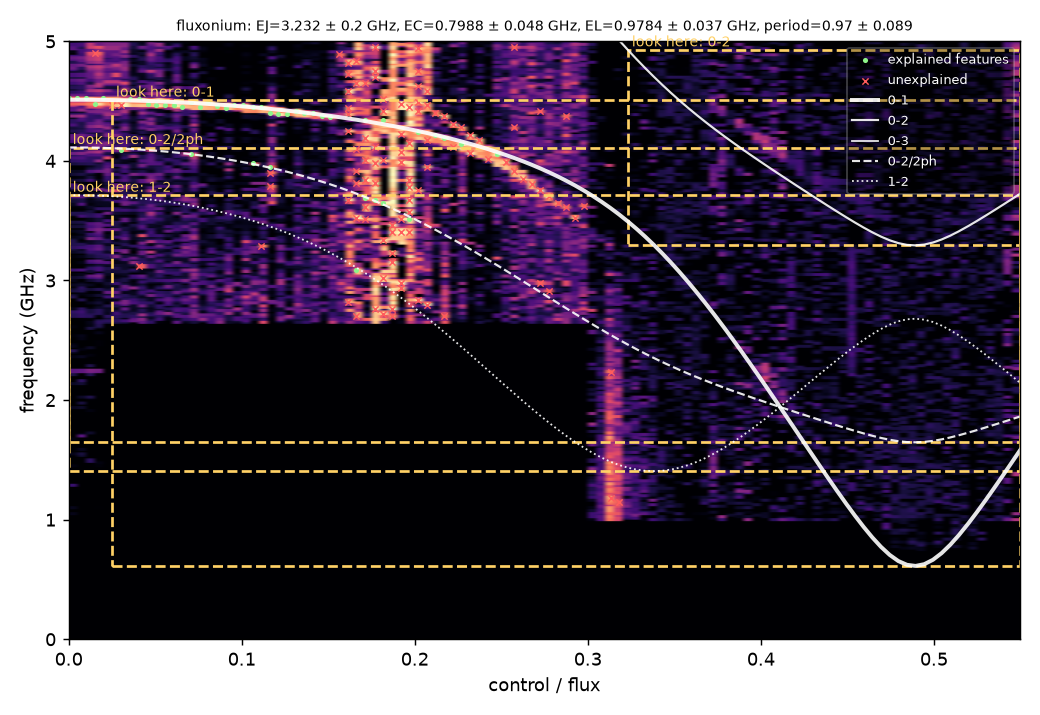
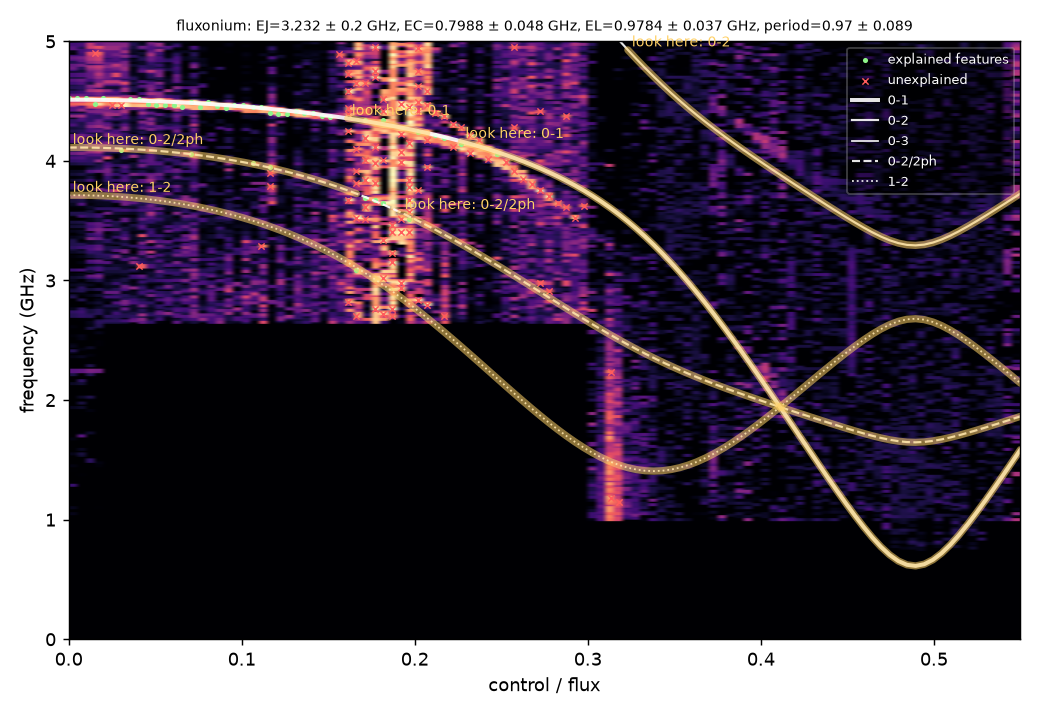
Look-here suggestions drawn as line segments; multi-start fitter

diff --git a/circuitsleuth/agent.py b/circuitsleuth/agent.py
@@ -33,6 +33,7 @@ class AgentConfig:
     extra_hypotheses: tuple = ()
     families: tuple = ()  # restrict candidate families (empty = all)
     flux_calibrated: bool = False  # x axis already in flux quanta: period = 1, offset = 0 (tight bounds)
+    n_starts: int = 2  # random restarts of the global search (best fine-scale loss wins)
 
 
 def _emit(progress: Progress | None, kind: str, **payload):
@@ -113,14 +114,32 @@ def next_measurements(res: fit.FitResult, pts_all, band, x_grid, c_local, line_w
             if not near.size or np.min(np.abs(near[:, 1] - Li)) > 3 * c_local:
                 missing.append((xi, Li))
         if len(missing) >= 0.5 * inband.sum() and len(missing) >= 3:
+            # split the missing columns into contiguous runs and report the longest two as boxes
             xs = np.array([m[0] for m in missing])
             fs = np.array([m[1] for m in missing])
+            order = np.argsort(xs)
+            xs, fs = xs[order], fs[order]
+            dxg = np.median(np.diff(np.unique(x_grid))) if len(x_grid) > 1 else 1.0
+            runs, start = [], 0
+            for i in range(1, len(xs) + 1):
+                if i == len(xs) or xs[i] - xs[i - 1] > 2.5 * dxg:
+                    runs.append((start, i))
+                    start = i
+            runs.sort(key=lambda ab: -(ab[1] - ab[0]))
             why = f"the model predicts the {name} line here but nothing was detected"
             if name == "0-2/2ph":
                 why += "; raise the drive power to bring out the two-photon transition"
             elif name == "1-2":
                 why += "; a weak thermal population line, visible with higher power or a pre-pulse"
-            out.append(dict(kind="look_here", line=name, x_lo=round(float(xs.min()), 4), x_hi=round(float(xs.max()), 4), f_lo=round(float(fs.min()), 3), f_hi=round(float(fs.max()), 3), why=why))
+            for a, b_ in runs[:2]:
+                if b_ - a < 3:
+                    continue
+                out.append(dict(kind="look_here", line=name, x_lo=round(float(xs[a]), 4), x_hi=round(float(xs[b_ - 1]), 4), f_lo=round(float(fs[a:b_].min()), 3), f_hi=round(float(fs[a:b_].max()), 3), why=why))
+    # keep the most useful suggestions: 0-1 first, then by run length
+    prio = {"0-1": 0, "0-2": 1, "0-2/2ph": 2, "1-2": 3, "0-3": 4}
+    look = [o for o in out if o["kind"] == "look_here"]
+    look.sort(key=lambda o: (prio.get(o["line"], 9), -(o["x_hi"] - o["x_lo"])))
+    out = [o for o in out if o["kind"] != "look_here"] + look[:4]
     # poorly determined parameters
     for n, s in res.sigma.items():
         v = res.params.get(n, np.nan)
@@ -192,11 +211,12 @@ def identify(image: np.ndarray | None = None, x: np.ndarray | None = None, f: np
     # ---- 3. fit bare hypotheses
     results: list[tuple[fit.FitResult, float, np.ndarray]] = []
 
-    def run_one(h: fit.Hypothesis, pts_fit, init, bounds, maxiter):
+    def run_one(h: fit.Hypothesis, pts_fit, init, bounds, maxiter, n_starts=None):
         def cb(params, loss):
             _emit(progress, "fit_progress", hypothesis=h.label, params=params, loss=loss, lines={k: v.tolist() for k, v in fit.predict_lines(h, params, x_grid).items()})
 
-        return fit.fit_hypothesis(pts_fit, h, band, init=init, bounds=bounds, maxiter=maxiter, popsize=cfg.popsize, seed=cfg.seed, workers=cfg.workers, callback=cb, c_local=cfg.c_local)
+        return fit.fit_hypothesis(pts_fit, h, band, init=init, bounds=bounds, maxiter=maxiter, popsize=cfg.popsize, seed=cfg.seed, workers=cfg.workers, callback=cb, c_local=cfg.c_local,
+                                  n_starts=cfg.n_starts if n_starts is None else n_starts)
 
     def run(h: fit.Hypothesis, init: dict | None):
         pts_fit = _fit_points_for(h, points, flat)
@@ -211,7 +231,7 @@ def identify(image: np.ndarray | None = None, x: np.ndarray | None = None, f: np
             cal = extract.estimate_flux_calibration(pts_fit)
             if cal["period"]:
                 P = cal["period"]
-                for ax in cal["axes"][:2]:
+                for ax in cal["axes"][:1]:
                     if ax["type"] == "unknown":
                         continue
                     off = ax["x"] if ax["type"] == "max" else ax["x"] - P / 2
@@ -224,7 +244,7 @@ def identify(image: np.ndarray | None = None, x: np.ndarray | None = None, f: np
                 _emit(progress, "calibration", period=P, axes=cal["axes"])
         best_res, best_sc, best_inl = None, -np.inf, None
         for b, ini, mi in candidates:
-            res = run_one(h, pts_fit, ini, b, mi)
+            res = run_one(h, pts_fit, ini, b, mi, n_starts=None if b is None else 1)
             score, inl = _score(res, points, ids, flat, band, cfg.c_local)
             if score > best_sc:
                 best_res, best_sc, best_inl = res, score, inl
@@ -276,7 +296,7 @@ def identify(image: np.ndarray | None = None, x: np.ndarray | None = None, f: np
         _emit(progress, "revise", reason=f"trying {hc.label} (p_coupled={p_coupled:.2f}, best score {best_score:.3f}); resonator candidates {', '.join(f'{v:.2f}' for v in cands[:3])} GHz")
         _emit(progress, "fit_start", hypothesis=hc.label, n_points=int(len(pts_fit)))
         cbest, csc, cinl = None, -np.inf, None
-        for fr0 in cands[:3]:
+        for fr0 in cands[:2]:
             b = fit.default_bounds(hc, pts_fit[:, 0])
             for k, v in best.params.items():  # circuit + calibration stay close to the bare solution
                 if k in b and k not in ("d", "offset", "period"):
@@ -287,7 +307,7 @@ def identify(image: np.ndarray | None = None, x: np.ndarray | None = None, f: np
                     b[k] = (v - 0.1 * best.params.get("period", 1.0), v + 0.1 * best.params.get("period", 1.0))
             b["fr"] = (max(fr0 - 0.6, models.RESONATOR_BOUNDS["fr"][0]), min(fr0 + 0.6, models.RESONATOR_BOUNDS["fr"][1]))
             init = dict(best.params, fr=fr0, g=0.1)
-            res = run_one(hc, pts_fit, init, b, max(20, int(cfg.maxiter * 0.6)))
+            res = run_one(hc, pts_fit, init, b, cfg.maxiter, n_starts=1)
             score, inl = _score(res, points, ids, flat, band, cfg.c_local)
             if score > csc:
                 cbest, csc, cinl = res, score, inl

diff --git a/circuitsleuth/fit.py b/circuitsleuth/fit.py
@@ -200,7 +200,7 @@ def subsample(points: np.ndarray, max_cols: int = 41, max_points: int = 3000) ->
     return points
 
 
-def fit_hypothesis(
+def _fit_once(
     points: np.ndarray,
     hyp: Hypothesis,
     band: tuple[float, float],
@@ -215,6 +215,7 @@ def fit_hypothesis(
     callback: Callable[[dict, float], None] | None = None,
     model_kw: dict | None = None,
     do_global: bool = True,
+    n_starts: int = 1,
 ) -> FitResult:
     x_all = np.unique(points[:, 0])
     bounds = bounds or default_bounds(hyp, x_all)
@@ -272,13 +273,14 @@ def fit_hypothesis(
         i_ej, i_ec = names.index(ej_name), names.index("EC")
         p0 = from_theta(theta0, names)
         f01 = np.sqrt(8 * p0["EC"] * p0[ej_name]) - p0["EC"]
-        best_t, best_v = theta0, obj_l(theta0)
-        for ec in np.exp(np.linspace(np.log(p0["EC"] * 0.5), np.log(p0["EC"] * 2.0), 21)):
+        obj_sweep = Objective(hyp, points, band, 3 * c_local, model_kw)
+        best_t, best_v = theta0, obj_sweep(theta0)
+        for ec in np.exp(np.linspace(np.log(p0["EC"] * 0.5), np.log(p0["EC"] * 2.0), 25)):
             ej = (f01 + ec) ** 2 / (8 * ec)
             t = theta0.copy()
             t[i_ec], t[i_ej] = np.log(ec), np.log(ej)
             if np.all(t >= lo) and np.all(t <= hi):
-                v = obj_l(t)
+                v = obj_sweep(t)
                 if v < best_v:
                     best_t, best_v = t, v
         theta0 = best_t
@@ -287,7 +289,9 @@ def fit_hypothesis(
     def resid(theta):
         return sw * obj_l.residuals(theta)
 
-    ls = least_squares(resid, theta0, bounds=(lo, hi), loss="soft_l1", f_scale=c_local, xtol=1e-10, ftol=1e-10, max_nfev=400)
+    # two-stage polish: a wider robust scale first pulls in lines that are ~50-100 MHz off, then the fine scale
+    ls = least_squares(resid, theta0, bounds=(lo, hi), loss="soft_l1", f_scale=3 * c_local, xtol=1e-9, ftol=1e-9, max_nfev=200)
+    ls = least_squares(resid, ls.x, bounds=(lo, hi), loss="soft_l1", f_scale=c_local, xtol=1e-10, ftol=1e-10, max_nfev=400)
     theta = ls.x
     params = from_theta(theta, names)
     r = obj_l.residuals(theta)
@@ -307,6 +311,22 @@ def fit_hypothesis(
         sigma = {n: float("nan") for n in names}
     lines = predict_lines(hyp, params, x_all, model_kw)
     return FitResult(hyp, params, theta, sigma, float(obj_l(theta)), r, inlier, inlier_frac, rms, x_all, lines, history=history, n_evals=n_evals + int(ls.nfev))
+
+
+def fit_hypothesis(points, hyp, band, bounds=None, init=None, c_global=0.08, c_local=0.012, maxiter=60, popsize=15, seed=0, workers=1,
+                   callback=None, model_kw=None, do_global=True, n_starts=1) -> FitResult:
+    """Multi-start wrapper: run the global+local fit from `n_starts` different random seeds and keep
+    the solution with the lowest fine-scale loss (the robust landscape has narrow basins; two starts
+    roughly square the failure probability away)."""
+    best = None
+    for k in range(max(1, n_starts) if do_global else 1):
+        res = _fit_once(points, hyp, band, bounds=bounds, init=init, c_global=c_global, c_local=c_local, maxiter=maxiter, popsize=popsize,
+                        seed=seed + 1000 * k, workers=workers, callback=callback, model_kw=model_kw, do_global=do_global)
+        if best is None or res.loss < best.loss:
+            best = res
+        if best.inlier_frac > 0.97:
+            break
+    return best
 
 
 def holdout_check(points: np.ndarray, result: FitResult, band: tuple[float, float], frac: float = 0.3, c_local: float = 0.012, model_kw: dict | None = None) -> dict:

diff --git a/scripts/make_figs.py b/scripts/make_figs.py
@@ -21,9 +21,17 @@ for name, vals in rep["lines"].items():
     v = np.array([np.nan if u is None else u for u in vals], float)
     if np.isfinite(v).any():
         ax.plot(xg, v, color="white", alpha=0.9, label=name, **styles.get(name, {}))
-for b in [n for n in rep["next_measurements"] if n["kind"] == "look_here"]:
-    ax.add_patch(Rectangle((b["x_lo"], b["f_lo"]), b["x_hi"] - b["x_lo"], max(b["f_hi"] - b["f_lo"], 0.05), fill=False, ec="#ffd166", lw=1.5, ls="--"))
-    ax.text(b["x_lo"], b["f_hi"], f" look here: {b['line']}", color="#ffd166", fontsize=8, va="bottom")
+boxes = [n for n in rep["next_measurements"] if n["kind"] == "look_here"]
+lines = rep["lines"]; x_grid = xg
+if boxes:
+    for b in boxes:
+        name = b.get("line")
+        if lines is not None and x_grid is not None and name in lines:
+            v = np.array([np.nan if u is None else u for u in lines[name]], float)
+            m = (x_grid >= b["x_lo"]) & (x_grid <= b["x_hi"]) & np.isfinite(v)
+            if m.any():
+                ax.plot(x_grid[m], v[m], color="#ffd166", lw=4, alpha=0.55, solid_capstyle="round")
+                ax.text(x_grid[m][0], v[m][0], f" look here: {name}", color="#ffd166", fontsize=8, va="bottom")
 ax.set_ylim(f[0], f[-1]); ax.set_xlabel("control / flux"); ax.set_ylabel("frequency (GHz)")
 b = rep["best"]
 ax.set_title(f"{b['hypothesis']}: " + ", ".join(f"{k}={v}" for k, v in b["params_pretty"].items() if k not in ("offset",)), fontsize=8)

diff --git a/app.py b/app.py
@@ -68,8 +68,13 @@ def draw_map(image, x, f, points=None, inlier=None, lines=None, x_grid=None, box
             ax.plot(x_grid, v, color="white", alpha=0.9, label=name, **LINE_STYLE.get(name, {}))
     if boxes:
         for b in boxes:
-            ax.add_patch(Rectangle((b["x_lo"], b["f_lo"]), b["x_hi"] - b["x_lo"], max(b["f_hi"] - b["f_lo"], 0.05), fill=False, ec="#ffd166", lw=1.5, ls="--"))
-            ax.text(b["x_lo"], b["f_hi"], f" look here: {b['line']}", color="#ffd166", fontsize=8, va="bottom")
+            name = b.get("line")
+            if lines is not None and x_grid is not None and name in lines:
+                v = np.array([np.nan if u is None else u for u in lines[name]], float)
+                m = (x_grid >= b["x_lo"]) & (x_grid <= b["x_hi"]) & np.isfinite(v)
+                if m.any():
+                    ax.plot(x_grid[m], v[m], color="#ffd166", lw=4, alpha=0.55, solid_capstyle="round")
+                    ax.text(x_grid[m][0], v[m][0], f" look here: {name}", color="#ffd166", fontsize=8, va="bottom")
     if flat_lines:
         for fl in flat_lines:
             ax.axhline(fl, color="#ff5c5c", lw=0.6, alpha=0.5)
